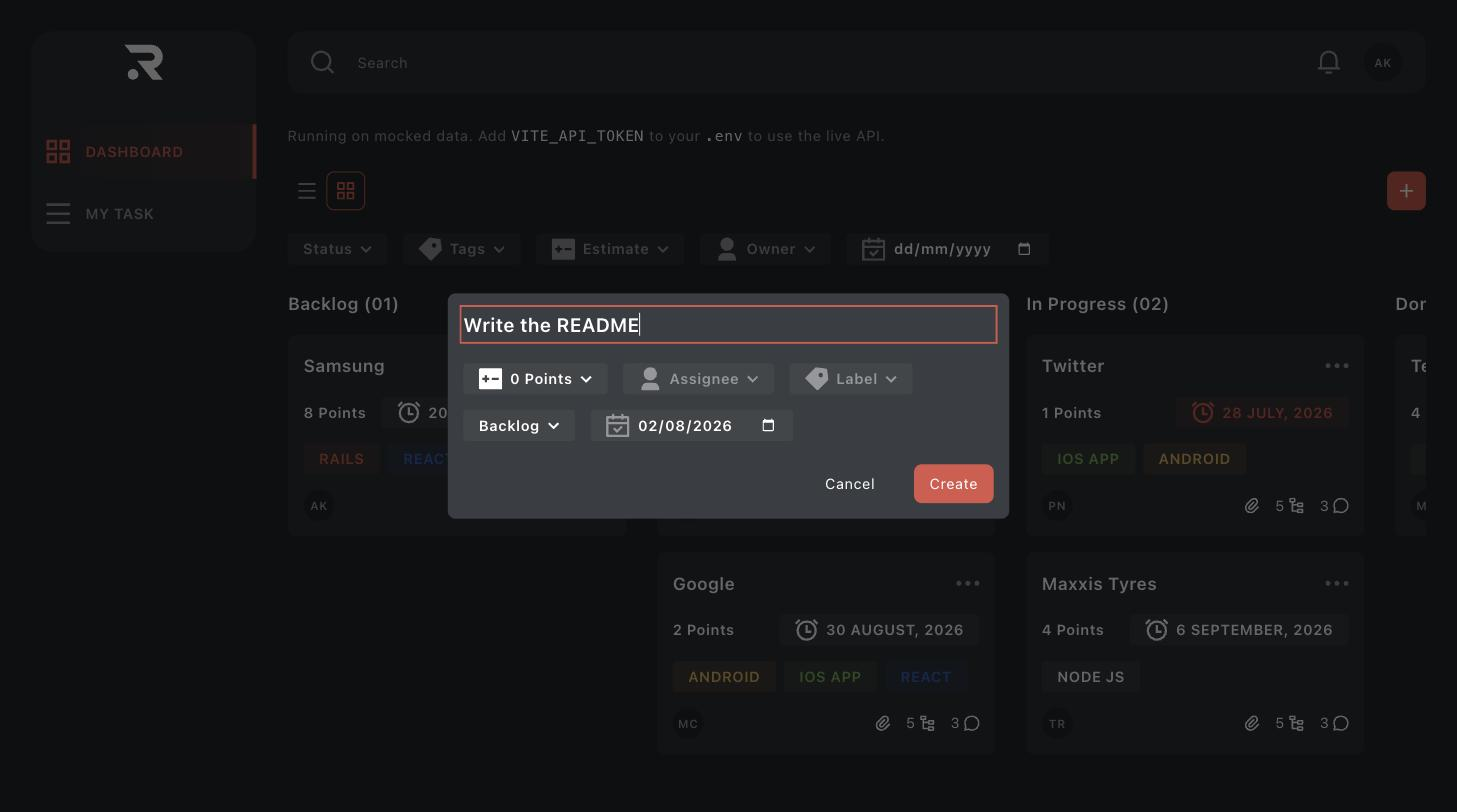
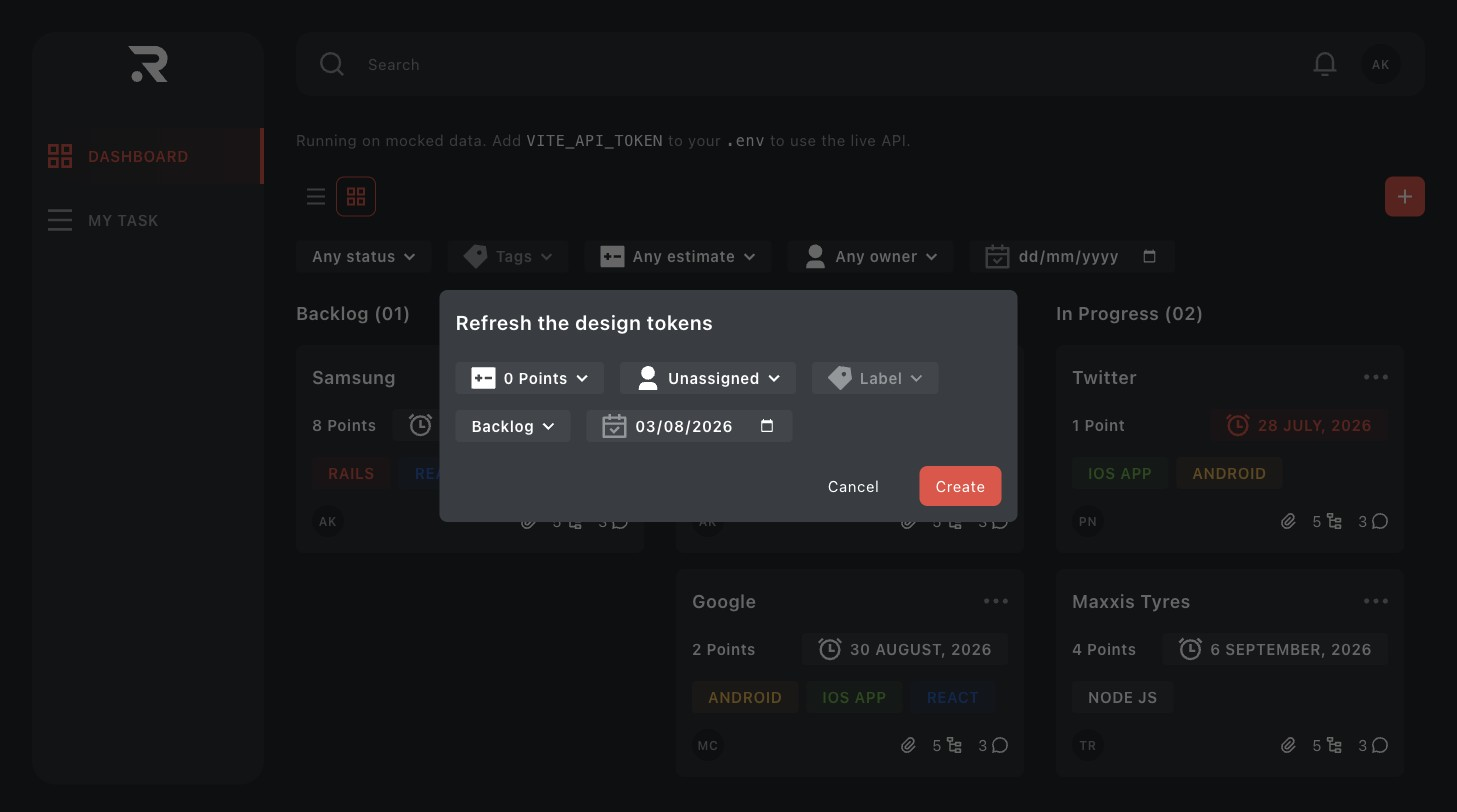
docs: recapture the screenshots against the current build
All four were byte-identical to the originals and predated every one of the thirty fixes.
Two of them showed things that are no longer true: `dashboard.jpg` displayed "1 Points"
on a card, and `settings.jpg` displayed a timestamp produced by the date formatter that
has since been deleted. A screenshot of a fixed bug is worse than no screenshot.

They also predated the list layout, the sub-768px navigation, the rebuilt notifications,
the "Any status / estimate / owner" filter options, columns ordered by `position`, and
seed data where the owner filter matches anything.

Adds a fifth for the list layout, which the README claims as a bonus item and which no
image showed. Same 1457x812 as the originals.

diff --git a/README.md b/README.md
@@ -50,8 +50,8 @@ anywhere in this repository.
 | ---------------------------------------------------- | ------------------------------------------------- |
 | ![Creating a task](docs/screenshots/create-task.jpg) | ![No results](docs/screenshots/empty-results.jpg) |
 | Creating a task                                      | Filters that match nothing                        |
-| ![Settings](docs/screenshots/settings.jpg)           |                                                   |
-| The signed-in user                                   |                                                   |
+| ![Settings](docs/screenshots/settings.jpg)           | ![List layout](docs/screenshots/list-view.jpg)    |
+| The signed-in user                                   | The list layout                                   |
 
 - **Board** — five status columns, task cards with name, tags, due date, points, assignee
   and an options menu. Loading, error and empty states are three distinct things.
